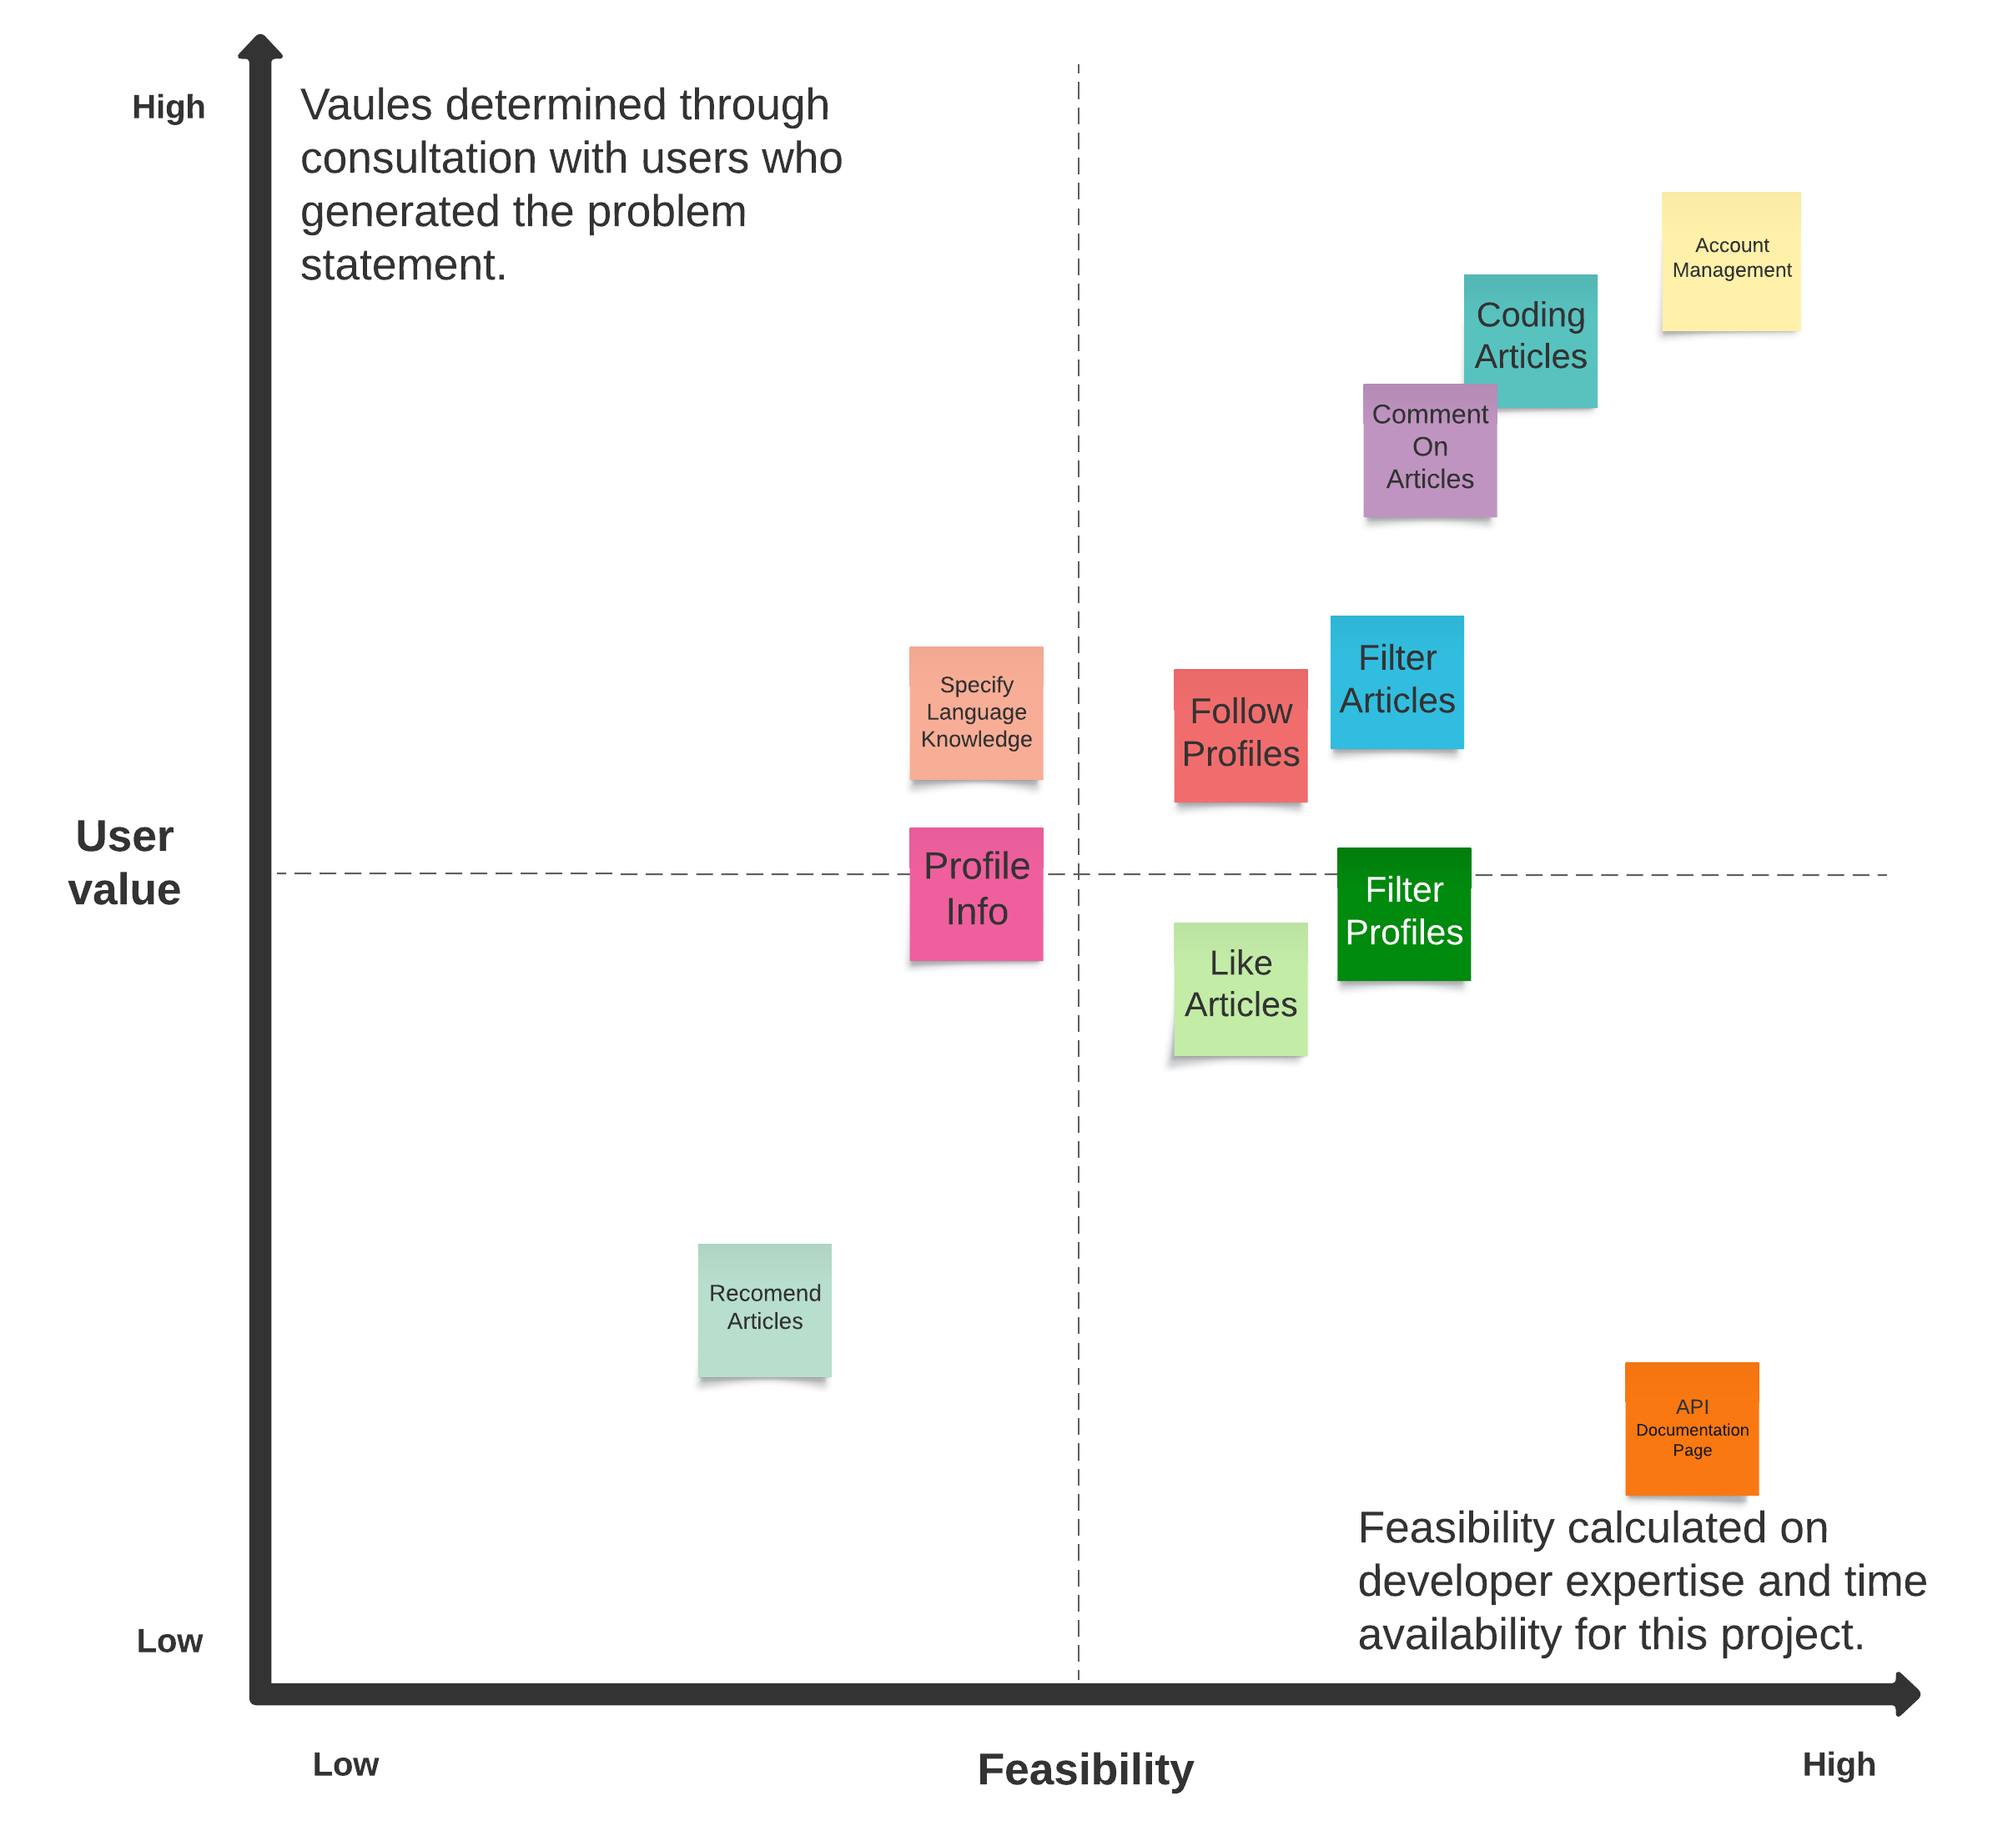
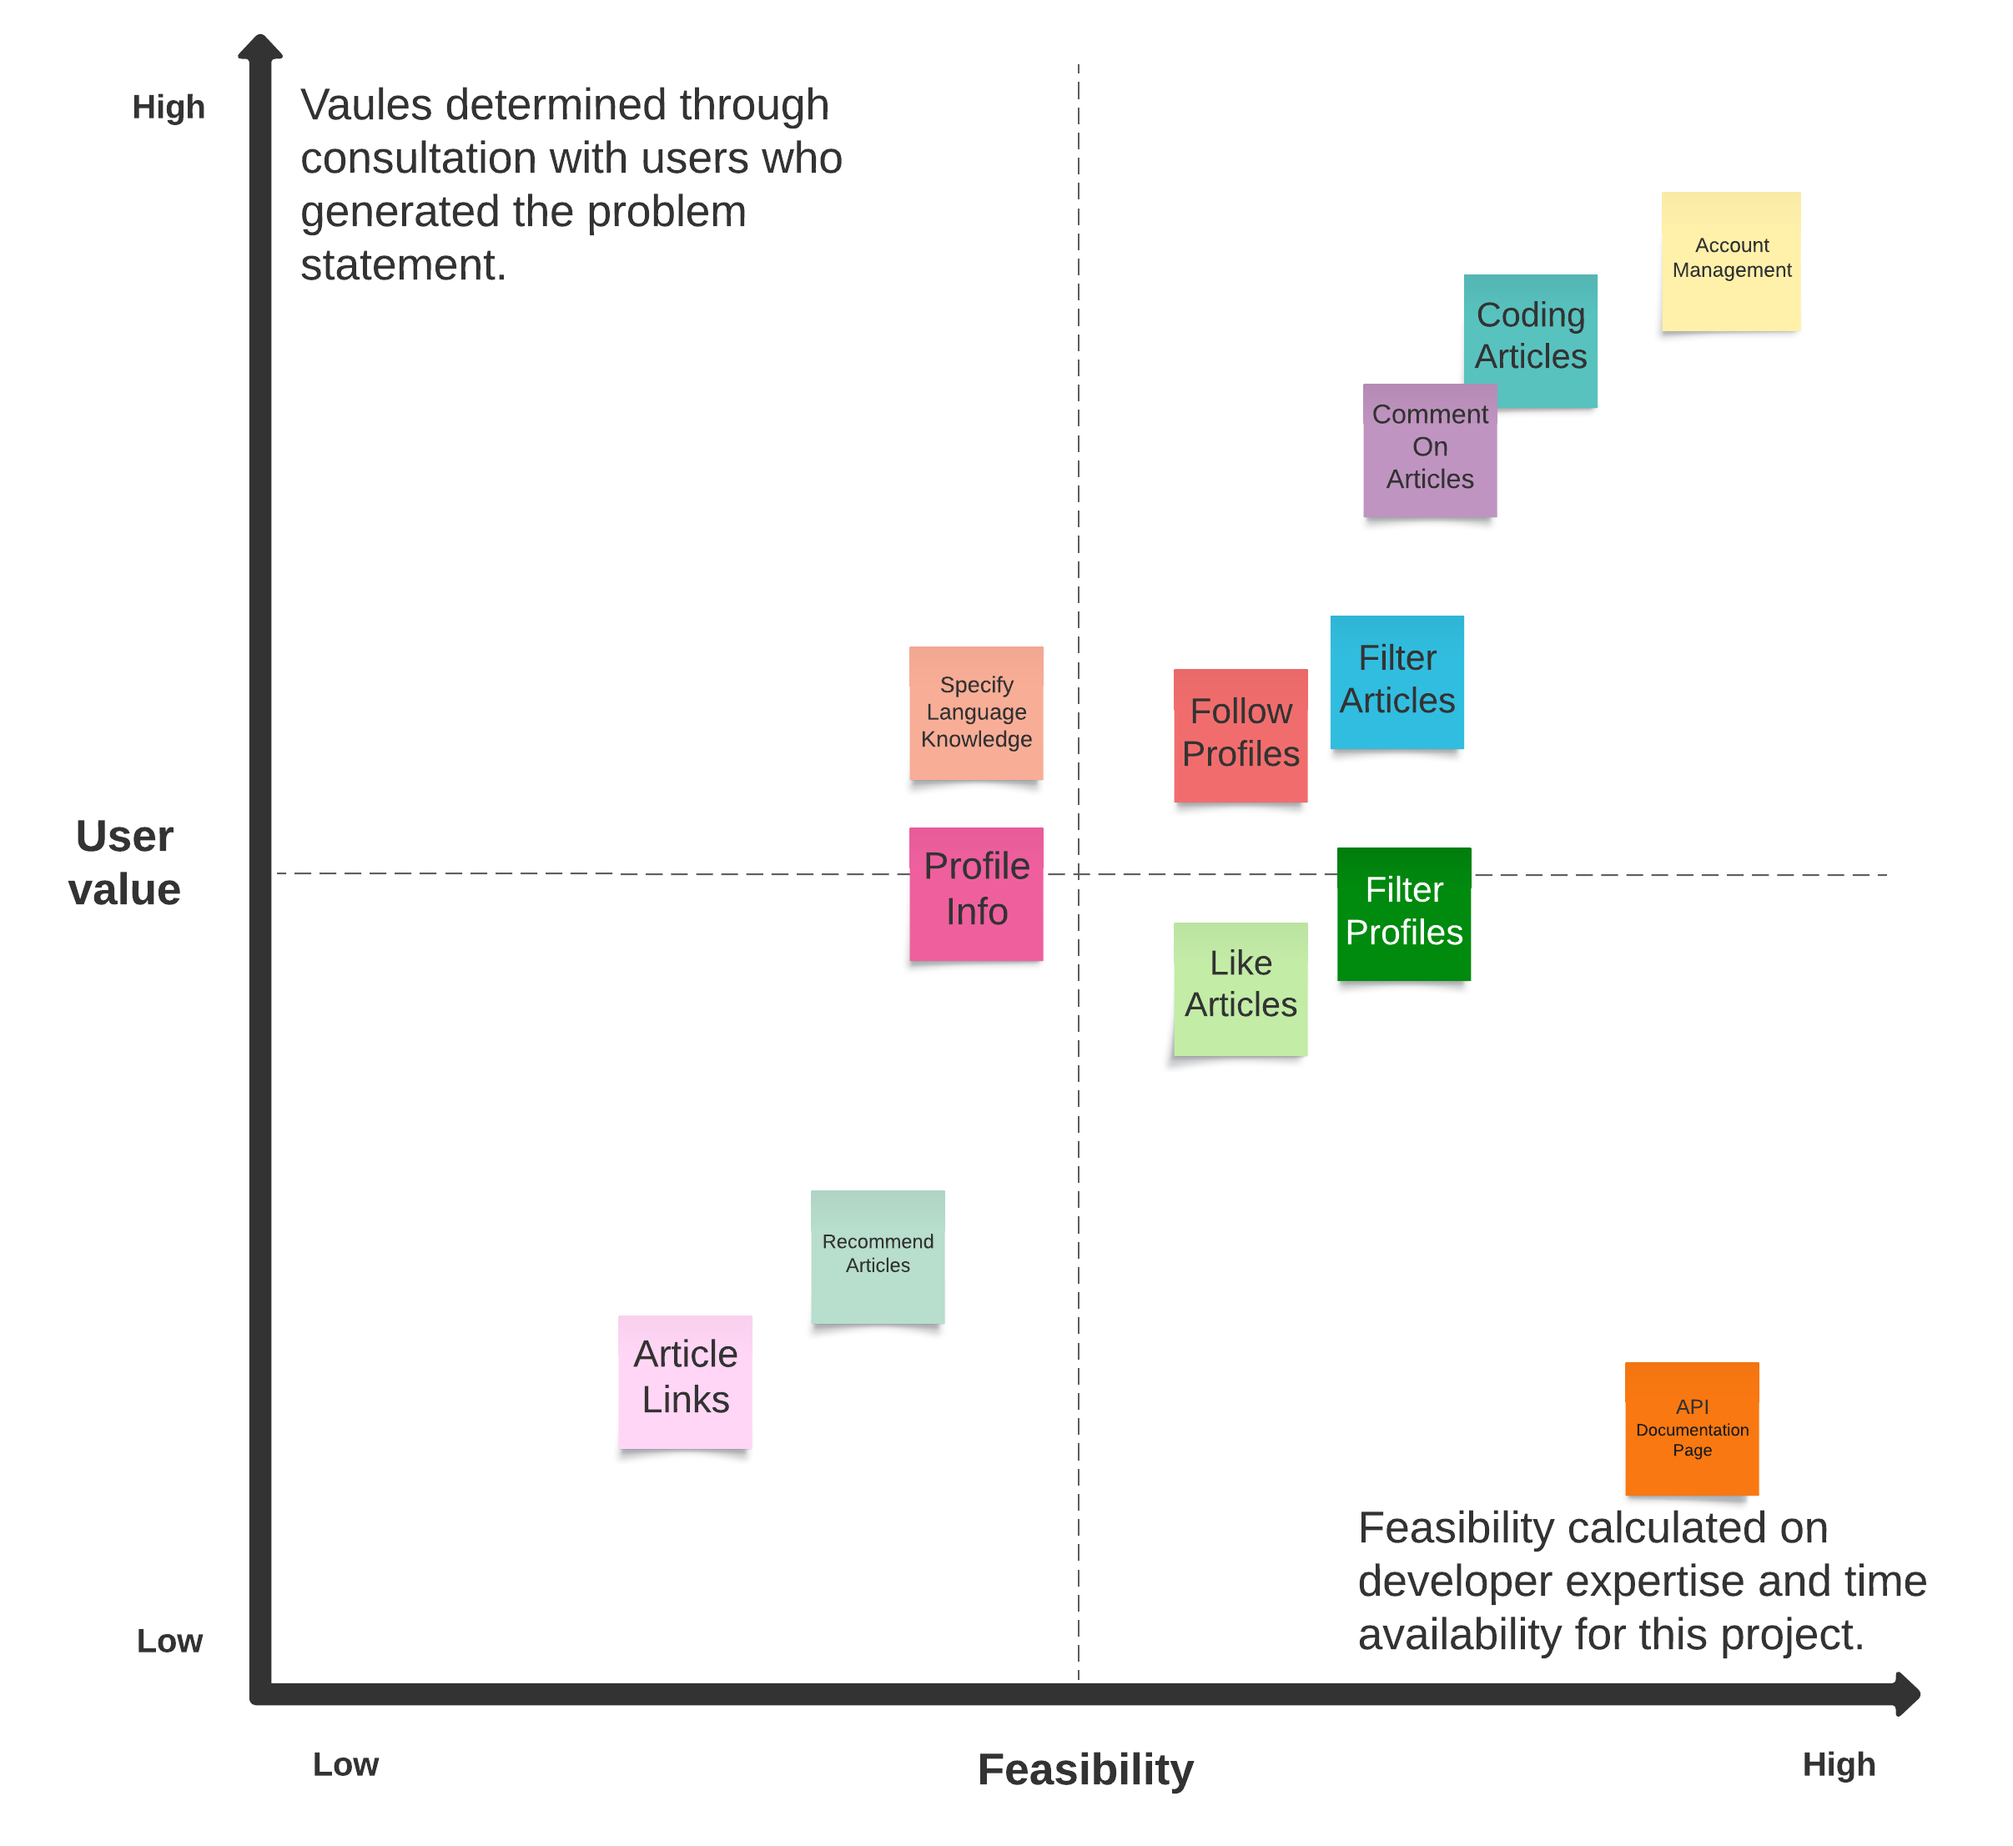
add user stories summeries to readme for recommended and link

Changed region(s): [[0.2797, 0.6236, 0.4973, 0.8107]]

diff --git a/README.md b/README.md
@@ -193,7 +193,7 @@ If you have a LucidChart account, you can also view this Mind-Map [here](https:/
 </details>
 
 <details>
-    <summary style="font-weight:bold">Mind Map - Enhancment Feature 1</summary>
+    <summary style="font-weight:bold">Mind Map - Enhancement Feature 1</summary>
 
 <br>
 Following completion of the core functionality an additional mind map was generated to consider the additonal function of allowing users to recommend articles.
@@ -208,7 +208,7 @@ If you have a LucidChart account, you can also view this Mind-Map [here](https:/
 </details>
 
 <details>
-    <summary style="font-weight:bold">Mind Map - Enhancment Feature 2</summary>
+    <summary style="font-weight:bold">Mind Map - Enhancement Feature 2</summary>
 
 <br>
 Following completion of the recommended article functionality an additional mind map was generated to consider the additonal function of allowing users to add multiple links to an article.
@@ -381,6 +381,33 @@ These also breakdown:
 
 </details>
 
+<details>
+    <summary style="font-weight:bold">Recommend Articles</summary>
+
+<br>
+
+- [Link](https://github.com/Joe-Collins-1986/BitWise-Front-End/issues/30): As a **user** I can **view all the recommended articles other users have sent to me** so that **I can access them directly from my profile.**
+- [Link](https://github.com/Joe-Collins-1986/BitWise-Front-End/issues/31): As a **user** I can **recommended articles to other users** so that **I can share interesting articles.**
+- [Link](https://github.com/Joe-Collins-1986/BitWise-Front-End/issues/32): As a **user** I can **remove recommendations from my profile** so that **I am left with only articles I am interested in.**
+
+---
+
+</details>
+
+<details>
+    <summary style="font-weight:bold">Article Links</summary>
+
+<br>
+
+- [Link](https://github.com/Joe-Collins-1986/BitWise-Front-End/issues/33): As a **user** I can **view all the links related to an article** so that **I can access them directly from the article.**
+- [Link](https://github.com/Joe-Collins-1986/BitWise-Front-End/issues/34): As a **user** I can **add links to an article I wrote** so that **I can provide useful resource to the audience.**
+- [Link](https://github.com/Joe-Collins-1986/BitWise-Front-End/issues/35): As a **user** I can **delete links on an article I wrote** so that **I can remove link I no longer want associated with the article.**
+- [Link](https://github.com/Joe-Collins-1986/BitWise-Front-End/issues/36): As a **user** I can **edit links on an article I wrote** so that **I can fix inaccuracies.**
+
+---
+
+</details>
+
 ## Priority Matrix
 
 The below graphs map out the feasibility of the frontend features considered against the user value they provide to help establish the priority they have as part of the build.
@@ -395,7 +422,7 @@ The below graphs map out the feasibility of the frontend features considered aga
 
 </details>
 
-If you have a LucidChart account, you can also view this priority matrix [here](https://lucid.app/lucidspark/406a3984-0347-45eb-8e45-a5e3f08144ba/edit?viewport_loc=-2215%2C904%2C4713%2C2850%2C0_0&invitationId=inv_cb50c34a-94ea-4124-99fa-ac9da55318a3).
+If you have a LucidChart account, you can also view this priority matrix [here](https://lucid.app/lucidspark/406a3984-0347-45eb-8e45-a5e3f08144ba/edit?viewport_loc=-2166%2C-751%2C3880%2C5038%2C0_0&invitationId=inv_cb50c34a-94ea-4124-99fa-ac9da55318a3).
 
 ## Agile Methodology
 
@@ -1324,7 +1351,6 @@ When an administrator reviews the comment they will have the ability to respond 
 
 ## Updates Relient On Backend
 
-- Add a recommended section to the Profile. Users to be able to recommend articles to other users which would appear in their profile next to languages. This would be achieved by creating a model linking the articles to profiles.
 - Add restriction option to the articles which the author could apply. This would restrict users who are not following the author from reading the articles.
 - Add video uploads as well as articles - storing to AWS.
 - Potential for live streaming - would require third party integration with a service such as Wowza, Vimeo, YouTube Live, etc.
